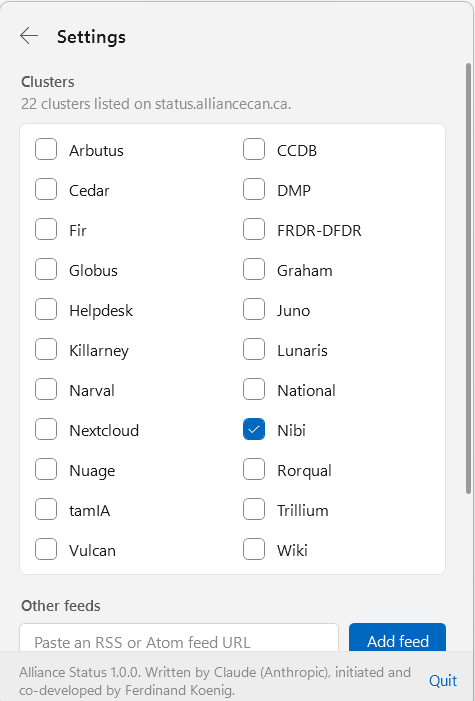
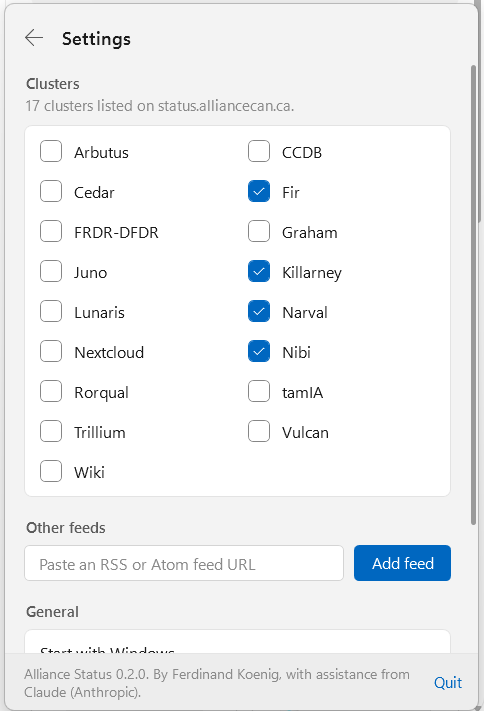
Update settings screenshot

diff --git a/README.md b/README.md
@@ -37,18 +37,12 @@ because the feed has no field for that.
 
 ## Credits
 
-Written by **Claude** (Anthropic's AI model, Claude Opus 5.5), initiated and co-developed by
-**Ferdinand Koenig**.
+Initiated and developed by **Ferdinand Koenig**. Code written with assistance from **Claude** (Anthropic).
 
 ## Install
 
-**Option A: automated GitHub builds (recommended).** Push this folder to GitHub. To create a release:
-
-1. Test locally: `.\Install.cmd` or `dotnet run --project src\AllianceStatus`
-2. Push a tag: `git tag v1.0.0 && git push --tags`
-3. The workflow automatically builds and publishes a Release
-
-Download `AllianceStatus-Setup.exe` from the Release and double-click it.
+Download `AllianceStatus-Setup.exe` from the
+[latest release](https://github.com/ferdinand-koenig/alliancecan-status/releases/latest).
 
 ### Installation steps
 
@@ -63,9 +57,8 @@ Download `AllianceStatus-Setup.exe` from the Release and double-click it.
 
      ![SmartScreen, second screen](README-images/windows-defender-prompt.png)
 
-3. The installer opens and asks:
-   - Install location (defaults to `%LOCALAPPDATA%\Programs\AllianceStatus`)
-   - Whether to start with Windows (optional)
+3. The installer asks whether to start Alliance Status with Windows, then installs to
+   `%LOCALAPPDATA%\Programs\AllianceStatus`.
 
 4. Done. The app opens and sits in the notification area (bottom-right of the taskbar).
 
@@ -75,23 +68,25 @@ No admin rights needed. Uninstall from Settings → Apps → Alliance Status.
 
 **Option B: double-click `Install.cmd`.** Builds and installs on your own PC. If the .NET 10 SDK
 isn't installed, it downloads a temporary private copy (about 200 MB) and deletes it afterwards.
-Same per-user install with a Settings → Apps entry.
+Same per-user install with a Settings → Apps entry. It builds a "development build", which doesn't check for updates.
 
 **Option C: unzip and run.** Unzip `AllianceStatus-win-x64-standalone.zip` and run `AllianceStatus.exe`
-directly from anywhere (USB stick, custom folder, etc.). No installer, no Start menu entry.
+directly from anywhere (USB stick, custom folder, etc.). No installer, no Start menu entry. One-click updates install the regular version; they don't update this portable copy.
 
 **Local build:** `.\publish.ps1 -Mode standalone`, then `ISCC.exe installer\AllianceStatus.iss`
 ([Inno Setup 6](https://jrsoftware.org/isinfo.php), free).
 
 ### Updates
 
-The app checks GitHub once a day. When a new version is out, you get one notification, and a
-blue dot appears on the gear icon. Open **Settings** to find the **Download** button. Install the
-new version over the old one; your clusters and settings are kept.
+The app checks GitHub once a day. When a new version is out, you get one notification and a
+blue dot appears on the gear icon. Click the notification, or open **Settings** and click
+**Install**: the app downloads the new version, checks that the file is intact, installs it,
+and restarts. Your clusters and settings are kept. **Check for updates** in Settings checks
+right away.
 
 ## Requirements
 
-| To run | Windows 10 1809+ or Windows 11 (x64 or ARM64) |
+| To run | Windows 10 1809+ or Windows 11 (x64; ARM64 through emulation) |
 |---|---|
 | To build | [.NET 10 SDK](https://dotnet.microsoft.com/download/dotnet/10.0) |
 
@@ -141,8 +136,7 @@ dotnet publish src\AllianceStatus -c Release -r win-x64 --self-contained true `
 
 - **Left-click** the tray icon to open or close the overview. Press Esc or click elsewhere to close it.
 - **Right-click** for Open, Refresh now, Start with Windows, Open status website, Quit.
-- The tray icon badge is **red** for an active incident, **amber** for scheduled maintenance,
-  **grey** when a feed can't be reached, and absent when everything is fine.
+- The tray icon's dot shows the overall status; see [Colors](#colors).
 - **Settings** (gear icon) lists the clusters found on status.alliancecan.ca. Tick the ones you care about.
   Nibi is selected by default. You can also paste any other RSS or Atom feed URL.
 - Launching the exe again while it is running simply opens the overview.
@@ -151,26 +145,11 @@ dotnet publish src\AllianceStatus -c Release -r win-x64 --self-contained true `
 
 ![Settings window showing cluster selection](README-images/settings.png)
 
-- **Clusters:** tick which Alliance clusters you want to monitor. The list is refreshed daily from status.alliancecan.ca.
-- **Other feeds:** paste any RSS or Atom feed URL to add it. Remove feeds by clicking the trash icon.
+- **Clusters:** tick which Alliance clusters you want to monitor. The list is refreshed daily from
+  status.alliancecan.ca; entries without a status feed are hidden.
+- **Other feeds:** paste any RSS or Atom feed URL to add it. Remove a feed with its ✕ button.
 - **General:** "Start with Windows" runs the app minimized when you sign in.
-
-#### Change the version number
-
-The version displayed in Settings ("Alliance Status 1.0.0") comes from `src/AllianceStatus/AllianceStatus.csproj`:
-
-```xml
-<Version>1.0.0</Version>
-```
-
-Change this line to `1.1.0` or any version you want, then rebuild or publish. The new version appears in the Settings footer.
-
-Command-line switches:
-
-| Switch | Effect |
-|---|---|
-| `--minimized` | Start without opening the overview (used by autostart) |
-| `--cleanup` | Remove the autostart entry and toast registration, then exit (run before deleting the app) |
+- **Version:** shown at the bottom, with **Check for updates**.
 
 ## Where data lives
 
@@ -183,7 +162,8 @@ Everything is in `%LOCALAPPDATA%\AllianceStatus\`:
 
 Autostart uses the per-user `HKCU\…\CurrentVersion\Run` key, so no admin rights are needed.
 
-To uninstall: right-click → Quit, run `AllianceStatus.exe --cleanup`, then delete the exe and the data folder.
+To uninstall: Settings → Apps → Alliance Status. For the portable copy: right-click → Quit,
+run `AllianceStatus.exe --cleanup`, then delete the exe and the data folder.
 
 ## How it works
 
@@ -197,6 +177,8 @@ src/AllianceStatus
 │  └─ Alliance.cs           feed URL scheme and cluster discovery
 ├─ Services/
 │  ├─ StatusMonitor.cs      polling, merge, pruning, notification decisions
+│  ├─ UpdateChecker.cs      daily GitHub release check, download, checksum, silent install
+│  ├─ SemVer.cs             version numbers (MAJOR.MINOR.PATCH)
 │  ├─ IncidentRules.cs      active / upcoming / past classification
 │  ├─ Notifier.cs           Windows toasts
 │  ├─ TrayIcon.cs           notification-area icon (drawn at runtime) and themed menu
@@ -225,6 +207,9 @@ wording such as *resolved*, *completed*, *restored*, *cancelled* in the status, 
 (but not "not resolved" or "will be completed"); the entry disappearing from the feed; and, for open-ended
 entries, 14 days without activity. An entry with a future start is **upcoming**; one whose end has passed
 or that reads as resolved is **past**.
+Alliance feeds are read more precisely: each entry's `published` date is the start and its `updated`
+date the end; `updated` = `None` means the incident is still ongoing, and the 14-day rule doesn't
+apply to them.
 
 **No duplicate notifications.** For every incident the app stores a fingerprint of its title, text, status
 and schedule, plus the state at the time. A toast is shown only when an incident is new (and not already over),
@@ -243,3 +228,16 @@ inside a check and a 5-minute retry interval between checks until the feed recov
 - **A cluster is missing from the list:** the list comes from the status home page and refreshes daily.
   You can always paste its feed URL (`https://status.alliancecan.ca/system/<Name>/feed.rss`) under Other feeds.
 - **Something looks wrong:** see `%LOCALAPPDATA%\AllianceStatus\log.txt`.
+- **An update fails:** see `%TEMP%\AllianceStatus-Update\install.log`, or download the installer
+  from the [latest release](https://github.com/ferdinand-koenig/alliancecan-status/releases/latest).
+
+## Releasing (maintainers)
+
+Push a plain version tag, for example `git tag v0.2.1 && git push origin v0.2.1`. The workflow
+builds the installer with that version and publishes it as the latest release; installed apps
+offer it as an update within a day. Tags with a suffix (`v0.2.1-beta`) are ignored. README and
+screenshot changes need no tag.
+
+## License
+
+MIT, see [LICENSE](LICENSE).
